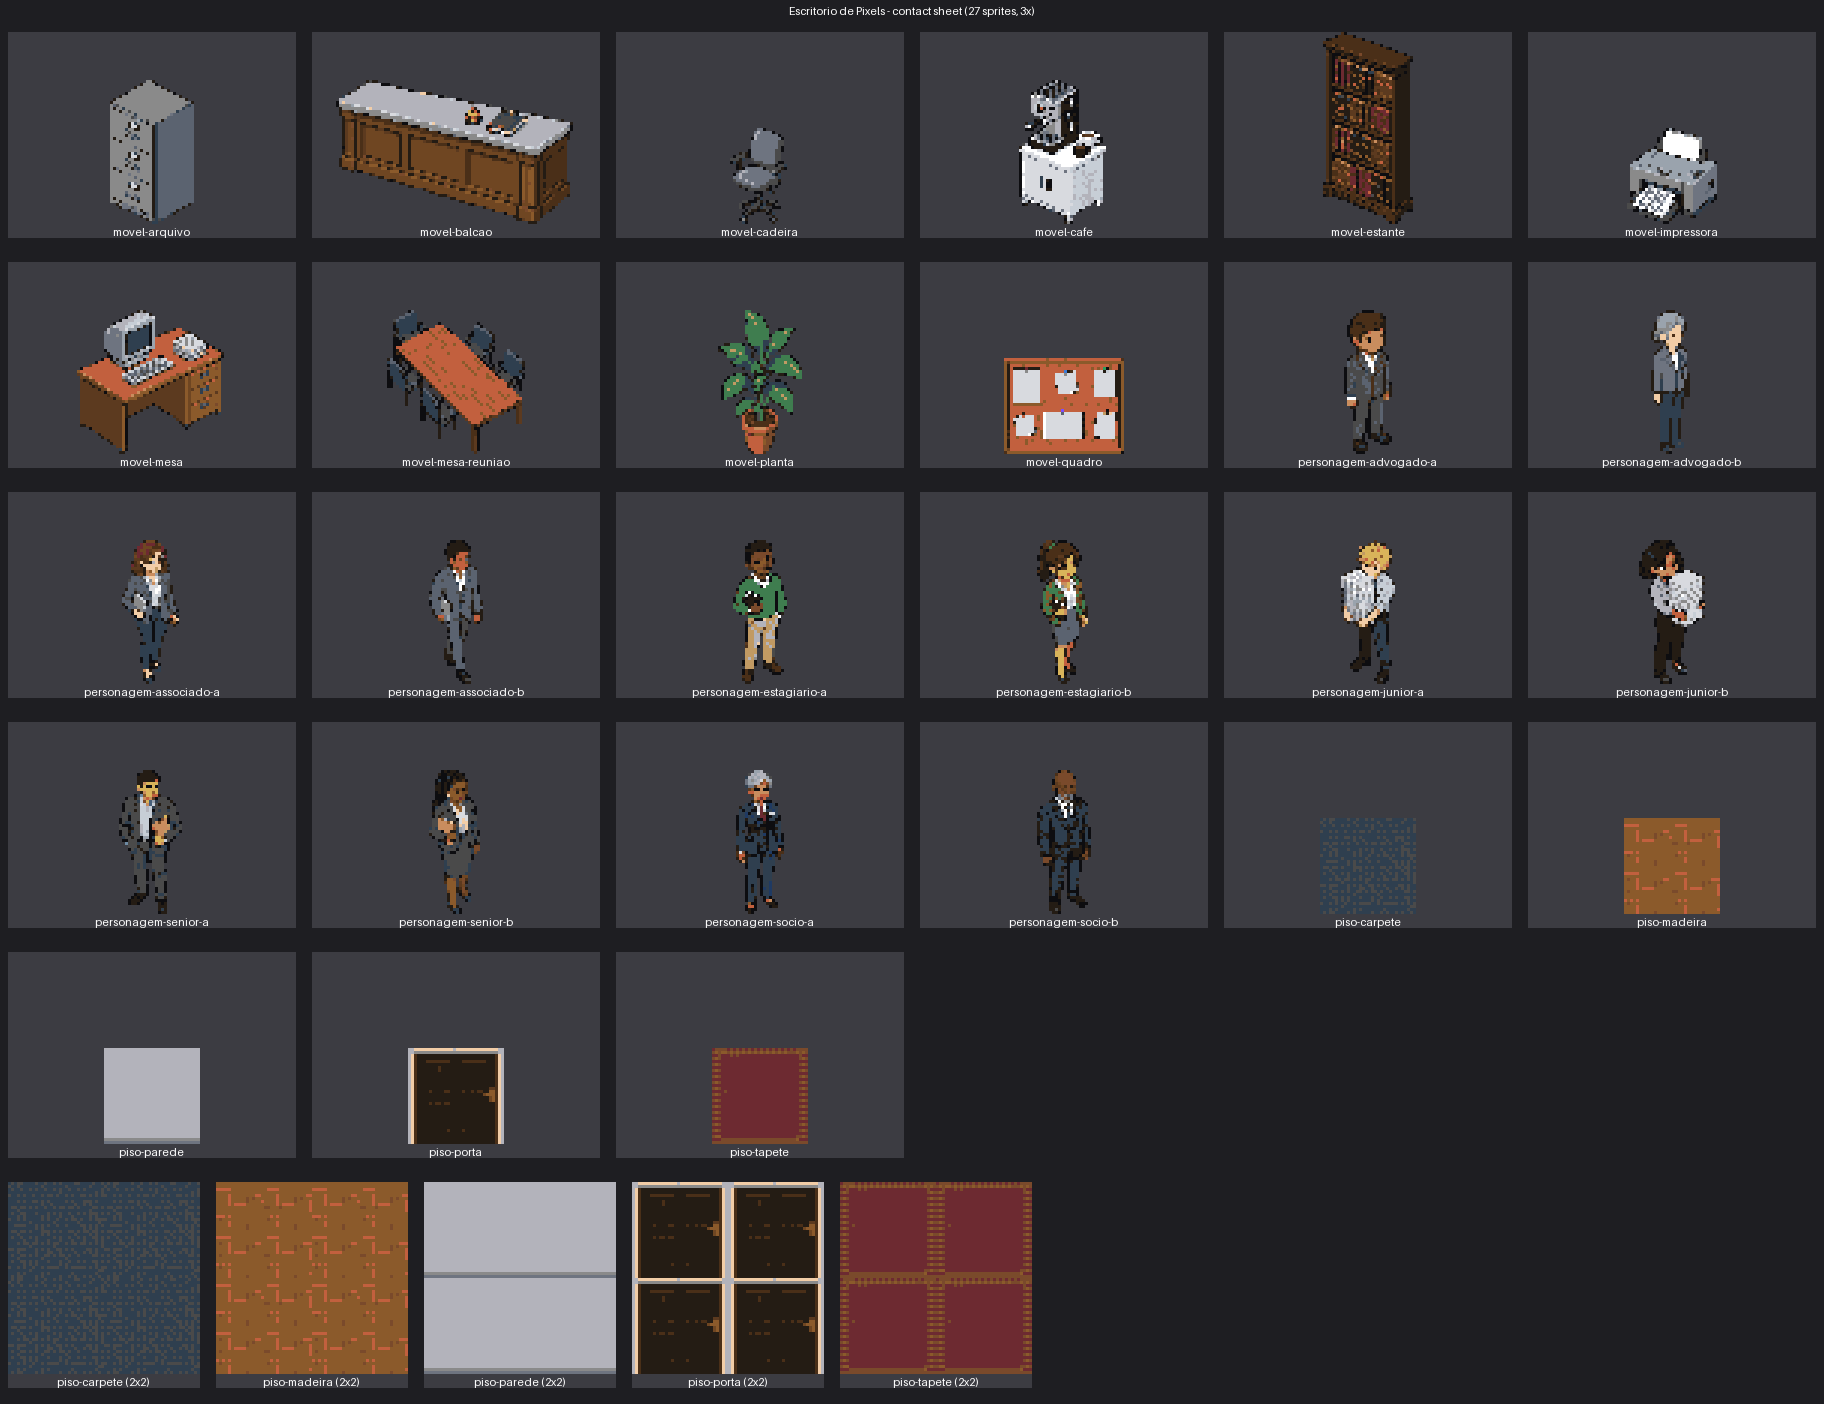
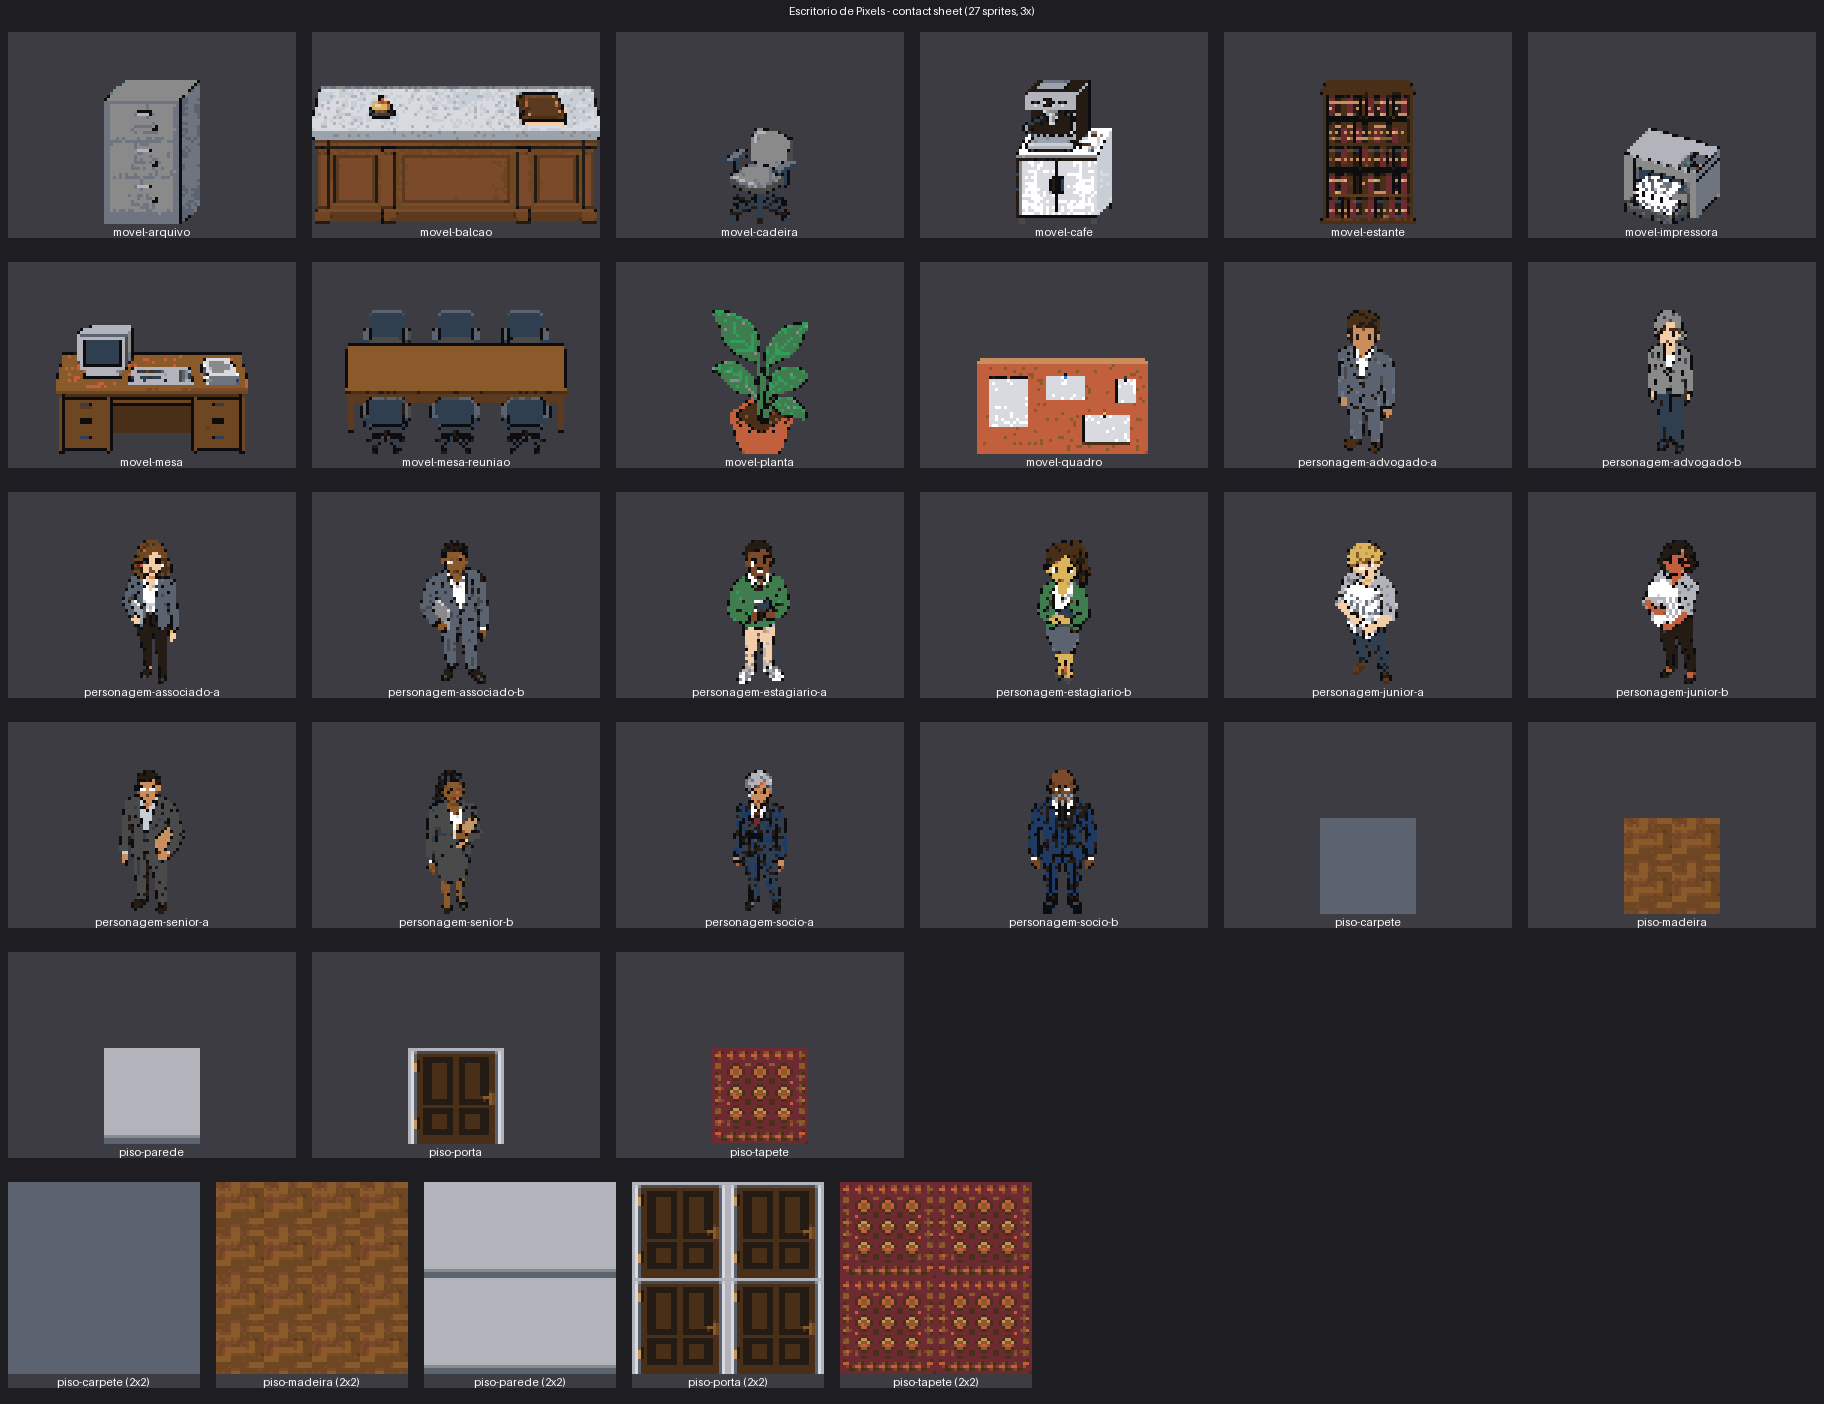
arte: geração em quality high, tamanho por proporção e prompts que preenchem o quadro
Frente 1 do experimento de refino (gpt-image-2.5-flare):
- quality="high" em vez de "medium"; o hash do asset passa a cobrir a qualidade;
- tamanho de geração conforme a proporção do alvo (1536x1024 para largos, 1024x1536
  para altos, 1024x1024 para quadrados), para o recorte proporcional desperdiçar menos;
- manifesto v2: preâmbulos com "fills the entire frame edge to edge", mesma vista
  three-quarter em todos os móveis, contorno de 1 px e cores chapadas; personagens com
  cargo reconhecível (sócios de terno escuro, estagiários de verde, júnior informal);
- gerar.py ganha --brutos (guarda a imagem crua), --de-brutos (reprocessa sem API) e
  --paralelo N; imprime o uso de tokens da API para estimar custo.

Regeração dos 27 assets: 27 chamadas, 3.391 tokens de texto e 39.732 tokens de imagem
(≈ US$ 1,21 pela tabela de gpt-image-2).

diff --git a/arte/gerar.py b/arte/gerar.py
@@ -7,8 +7,10 @@ Uso:
   python3 arte/gerar.py --so personagem-socio-a  gera um asset só
   python3 arte/gerar.py --forcar               regera mesmo com o hash igual
   python3 arte/gerar.py --modelo gpt-image-2.5-sunburst
+  python3 arte/gerar.py --brutos /tmp/brutos --paralelo 4   guarda as imagens cruas; 4 chamadas por vez
+  python3 arte/gerar.py --de-brutos /tmp/brutos --forcar    só repete o pós-processamento (sem API)
 
-Precisa de OPENAI_API_KEY no ambiente (menos com --seco).
+Precisa de OPENAI_API_KEY no ambiente (menos com --seco e --de-brutos).
 """
 import argparse
 import base64
@@ -26,8 +28,11 @@ RAIZ = Path(__file__).resolve().parent.parent
 MANIFESTO = RAIZ / "arte" / "manifesto.json"
 SAIDA = RAIZ / "public" / "arte"
 ATLAS = SAIDA / "atlas.json"
-TAMANHO_API = "1024x1024"
-QUALIDADE = "medium"
+QUALIDADE = "high"
+# Tamanhos que a API aceita; escolhido pela proporção do alvo (ver tamanho_api).
+TAMANHO_QUADRADO = "1024x1024"
+TAMANHO_LARGO = "1536x1024"
+TAMANHO_ALTO = "1024x1536"
 
 
 # ------------------------------------------------------------------ manifesto
@@ -42,10 +47,23 @@ def texto_do_prompt(manifesto, asset):
     return f"{manifesto['preambulos'][asset['categoria']]}. {asset['prompt']}."
 
 
-def hash_do_asset(modelo, preambulo, asset):
-    """Identidade do asset: muda se modelo, preâmbulo, prompt ou tamanho mudarem."""
-    semente = f"{modelo}{preambulo}{asset['prompt']}{asset['w']}x{asset['h']}"
+def hash_do_asset(modelo, preambulo, asset, qualidade=QUALIDADE):
+    """Identidade do asset: muda se modelo, preâmbulo, prompt, tamanho ou qualidade mudarem.
+    O tamanho pedido à API deriva de w x h (tamanho_api), então já está coberto."""
+    semente = f"{modelo}{preambulo}{asset['prompt']}{asset['w']}x{asset['h']}{qualidade}"
     return hashlib.sha256(semente.encode("utf-8")).hexdigest()[:12]
+
+
+def tamanho_api(asset):
+    """Quadro de geração com a proporção mais próxima do alvo, para o recorte proporcional
+    desperdiçar menos: largos (96x48, 64x48, 64x32) em 1536x1024, altos (32x48, 32x64) em
+    1024x1536, quadrados (32x32) em 1024x1024."""
+    razao = asset["w"] / asset["h"]
+    if razao >= 1.25:
+        return TAMANHO_LARGO
+    if razao <= 0.8:
+        return TAMANHO_ALTO
+    return TAMANHO_QUADRADO
 
 
 # ---------------------------------------------------------------------- atlas
@@ -119,9 +137,10 @@ def processar(img, asset, paleta=None):
 
 # ------------------------------------------------------------------------ API
 
-def gerar_imagem(modelo, texto, categoria):
-    """Chama a API de imagens e devolve o PNG como Image. Importa openai só aqui, para
-    que --seco e os testes rodem sem o pacote."""
+def gerar_imagem(modelo, texto, categoria, tamanho=TAMANHO_QUADRADO, qualidade=QUALIDADE):
+    """Chama a API de imagens e devolve (Image, uso). `uso` é o dicionário de tokens que a API
+    informa (ou {}), para estimar custo. Importa openai só aqui, para que --seco e os testes
+    rodem sem o pacote."""
     from openai import OpenAI
 
     cliente = OpenAI()
@@ -129,15 +148,38 @@ def gerar_imagem(modelo, texto, categoria):
         model=modelo,
         prompt=texto,
         n=1,
-        size=TAMANHO_API,
-        quality=QUALIDADE,
+        size=tamanho,
+        quality=qualidade,
         background="opaque" if categoria == "piso" else "transparent",
         output_format="png",
     )
-    return Image.open(io.BytesIO(base64.b64decode(resposta.data[0].b64_json)))
+    uso = resposta.usage.model_dump() if getattr(resposta, "usage", None) else {}
+    return Image.open(io.BytesIO(base64.b64decode(resposta.data[0].b64_json))), uso
 
 
 # ------------------------------------------------------------------------ CLI
+
+def obter_bruta(asset, texto, modelo, args):
+    """Imagem crua do asset: da pasta --de-brutos (sem rede) ou da API (gravando em --brutos)."""
+    nome = f"{asset['id']}.png"
+    if args.de_brutos:
+        return Image.open(Path(args.de_brutos) / nome), {}
+    bruta, uso = gerar_imagem(modelo, texto, asset["categoria"], tamanho_api(asset))
+    if args.brutos:
+        pasta = Path(args.brutos)
+        pasta.mkdir(parents=True, exist_ok=True)
+        bruta.save(pasta / nome, format="PNG")
+    return bruta, uso
+
+
+def produzir(asset, texto, modelo, args, paleta):
+    """Gera (ou relê) a imagem crua e grava o PNG final. Devolve o uso de tokens da API."""
+    bruta, uso = obter_bruta(asset, texto, modelo, args)
+    final = processar(bruta, asset, paleta)
+    SAIDA.mkdir(parents=True, exist_ok=True)
+    final.save(SAIDA / f"{asset['id']}.png", format="PNG", optimize=True)
+    return uso
+
 
 def principal(argv=None):
     ap = argparse.ArgumentParser(description="Gera a arte do Escritório de Pixels.")
@@ -145,6 +187,10 @@ def principal(argv=None):
     ap.add_argument("--so", metavar="ID", help="gera só este asset")
     ap.add_argument("--forcar", action="store_true", help="regera mesmo com o hash igual")
     ap.add_argument("--seco", action="store_true", help="só imprime os prompts; não chama a API")
+    ap.add_argument("--brutos", metavar="DIR", help="guarda a imagem crua da API nesta pasta")
+    ap.add_argument("--de-brutos", metavar="DIR", dest="de_brutos",
+                    help="reprocessa a partir das imagens cruas desta pasta, sem chamar a API")
+    ap.add_argument("--paralelo", type=int, default=1, metavar="N", help="chamadas simultâneas à API")
     args = ap.parse_args(argv)
 
     manifesto = carregar_manifesto()
@@ -166,27 +212,36 @@ def principal(argv=None):
     atlas = carregar_atlas()
     paleta = imagem_paleta()
     gerados, pulados, falhas = [], [], []
+    uso_total = {}
+    pendentes = []
 
     for asset in assets:
         preambulo = manifesto["preambulos"][asset["categoria"]]
         texto = texto_do_prompt(manifesto, asset)
         digest = hash_do_asset(modelo, preambulo, asset)
         if args.seco:
-            print(f"{asset['id']} [{asset['categoria']} {asset['w']}x{asset['h']} {digest}] {texto}")
+            print(f"{asset['id']} [{asset['categoria']} {asset['w']}x{asset['h']} {tamanho_api(asset)} {digest}] {texto}")
             continue
         atual = atlas.get(asset["id"])
         pronto = atual and atual.get("hash") == digest and (SAIDA / f"{asset['id']}.png").exists()
         if pronto and not args.forcar:
             pulados.append(asset["id"])
             continue
-        try:
-            bruta = gerar_imagem(modelo, texto, asset["categoria"])
-            final = processar(bruta, asset, paleta)
-            SAIDA.mkdir(parents=True, exist_ok=True)
-            final.save(SAIDA / f"{asset['id']}.png", format="PNG", optimize=True)
-        except Exception as erro:  # uma falha não derruba o lote inteiro
-            falhas.append((asset["id"], f"{type(erro).__name__}: {erro}"))
-            continue
+        pendentes.append((asset, texto, digest))
+
+    if args.seco:
+        print(f"{len(assets)} prompts (modelo {modelo}, {QUALIDADE}); nada foi gerado", file=sys.stderr)
+        return 0
+
+    def concluir(asset, digest, resultado):
+        """Registra o resultado no atlas (só no fio principal) e grava a cada sucesso: um lote
+        interrompido não perde o progresso."""
+        if isinstance(resultado, BaseException):
+            falhas.append((asset["id"], f"{type(resultado).__name__}: {resultado}"))
+            return
+        for chave, valor in resultado.items():
+            if isinstance(valor, (int, float)):
+                uso_total[chave] = uso_total.get(chave, 0) + valor
         atlas[asset["id"]] = {
             "id": asset["id"],
             "arquivo": f"{asset['id']}.png",
@@ -197,14 +252,31 @@ def principal(argv=None):
             "hash": digest,
         }
         gerados.append(asset["id"])
-        gravar_atlas(atlas)  # grava a cada sucesso: um lote interrompido não perde o progresso
+        gravar_atlas(atlas)
+        print(f"  ok {asset['id']} {resultado or ''}".rstrip(), file=sys.stderr)
 
-    if args.seco:
-        print(f"{len(assets)} prompts (modelo {modelo}); nada foi gerado", file=sys.stderr)
-        return 0
+    def tentar(asset, texto):
+        try:
+            return produzir(asset, texto, modelo, args, paleta)
+        except Exception as erro:  # uma falha não derruba o lote inteiro
+            return erro
+
+    if args.paralelo > 1 and len(pendentes) > 1:
+        from concurrent.futures import ThreadPoolExecutor, as_completed
+
+        with ThreadPoolExecutor(max_workers=args.paralelo) as executor:
+            futuros = {executor.submit(tentar, asset, texto): (asset, digest) for asset, texto, digest in pendentes}
+            for futuro in as_completed(futuros):
+                asset, digest = futuros[futuro]
+                concluir(asset, digest, futuro.result())
+    else:
+        for asset, texto, digest in pendentes:
+            concluir(asset, digest, tentar(asset, texto))
 
     gravar_atlas(atlas)  # cobre o caso de nada ter sido gerado (tudo pulado ou tudo falhou)
     print(f"gerados: {len(gerados)} | pulados: {len(pulados)} | falhas: {len(falhas)}", file=sys.stderr)
+    if uso_total:
+        print(f"uso acumulado da API: {uso_total}", file=sys.stderr)
     for identificador, erro in falhas:
         print(f"  falhou {identificador}: {erro}", file=sys.stderr)
     return 1 if falhas else 0

diff --git a/arte/CREDITOS.md b/arte/CREDITOS.md
@@ -1,9 +1,10 @@
 # Créditos da arte
 
 Todos os sprites em `public/arte/` foram gerados por IA a partir dos prompts em
-`arte/manifesto.json` (versão 1) com o modelo **gpt-image-2.5-flare** da OpenAI
-(`images.generate`, `size=1024x1024`, `quality=medium`), e depois pós-processados
-localmente por `arte/gerar.py` com Pillow:
+`arte/manifesto.json` (versão 2) com o modelo **gpt-image-2.5-flare** da OpenAI
+(`images.generate`, `quality=high`, tamanho conforme a proporção do alvo: `1536x1024`
+para assets largos, `1024x1536` para altos e `1024x1024` para os quadrados), e depois
+pós-processados localmente por `arte/gerar.py` com Pillow:
 
 1. alfa binarizado em 128 (pixel art não tem borda semitransparente);
 2. personagens e móveis recortados pela caixa de conteúdo, reduzidos com
@@ -13,7 +14,7 @@ localmente por `arte/gerar.py` com Pillow:
    sem dither.
 
 Cada entrada de `public/arte/atlas.json` carrega um `hash` de 12 caracteres que cobre
-modelo, preâmbulo da categoria, prompt e tamanho: mudar qualquer um deles faz
+modelo, preâmbulo da categoria, prompt, tamanho e qualidade: mudar qualquer um deles faz
 `arte/gerar.py` regerar aquele asset e só ele.
 
 ## Conteúdo
@@ -37,7 +38,12 @@ python3 arte/gerar.py                # gera só o que falta ou mudou de hash
 python3 arte/gerar.py --seco         # imprime os 27 prompts, sem chamar a API
 python3 arte/gerar.py --so movel-cafe --forcar
 python3 arte/gerar.py --so movel-cafe --modelo gpt-image-2.5-sunburst   # teste pontual
+python3 arte/gerar.py --brutos /tmp/brutos --paralelo 3   # guarda as imagens cruas; 3 chamadas por vez
+python3 arte/gerar.py --de-brutos /tmp/brutos --forcar    # repete só o pós-processamento, sem API
 ```
+
+Guardar as brutas (`--brutos`) permite testar outro pós-processamento sem pagar a geração de
+novo; a pasta não é versionada.
 
 Trocar de modelo em definitivo é editar `"modelo"` em `arte/manifesto.json`: o hash de cada
 asset inclui o modelo, e `--modelo` sozinho faria o lote inteiro ser regerado duas vezes.
